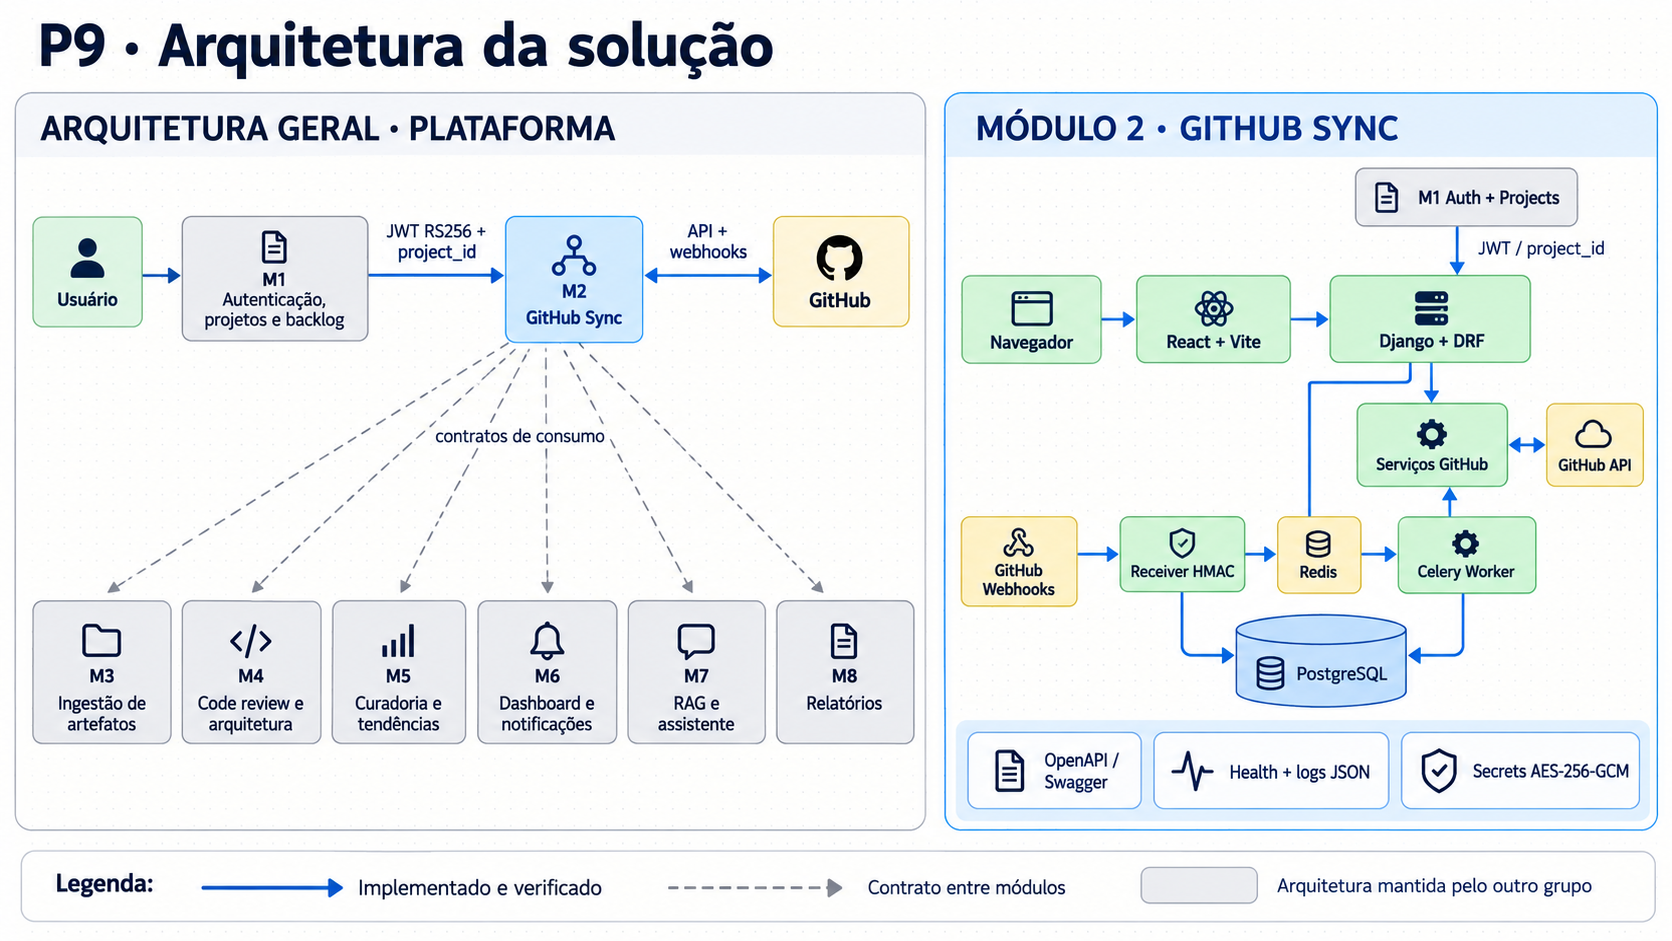
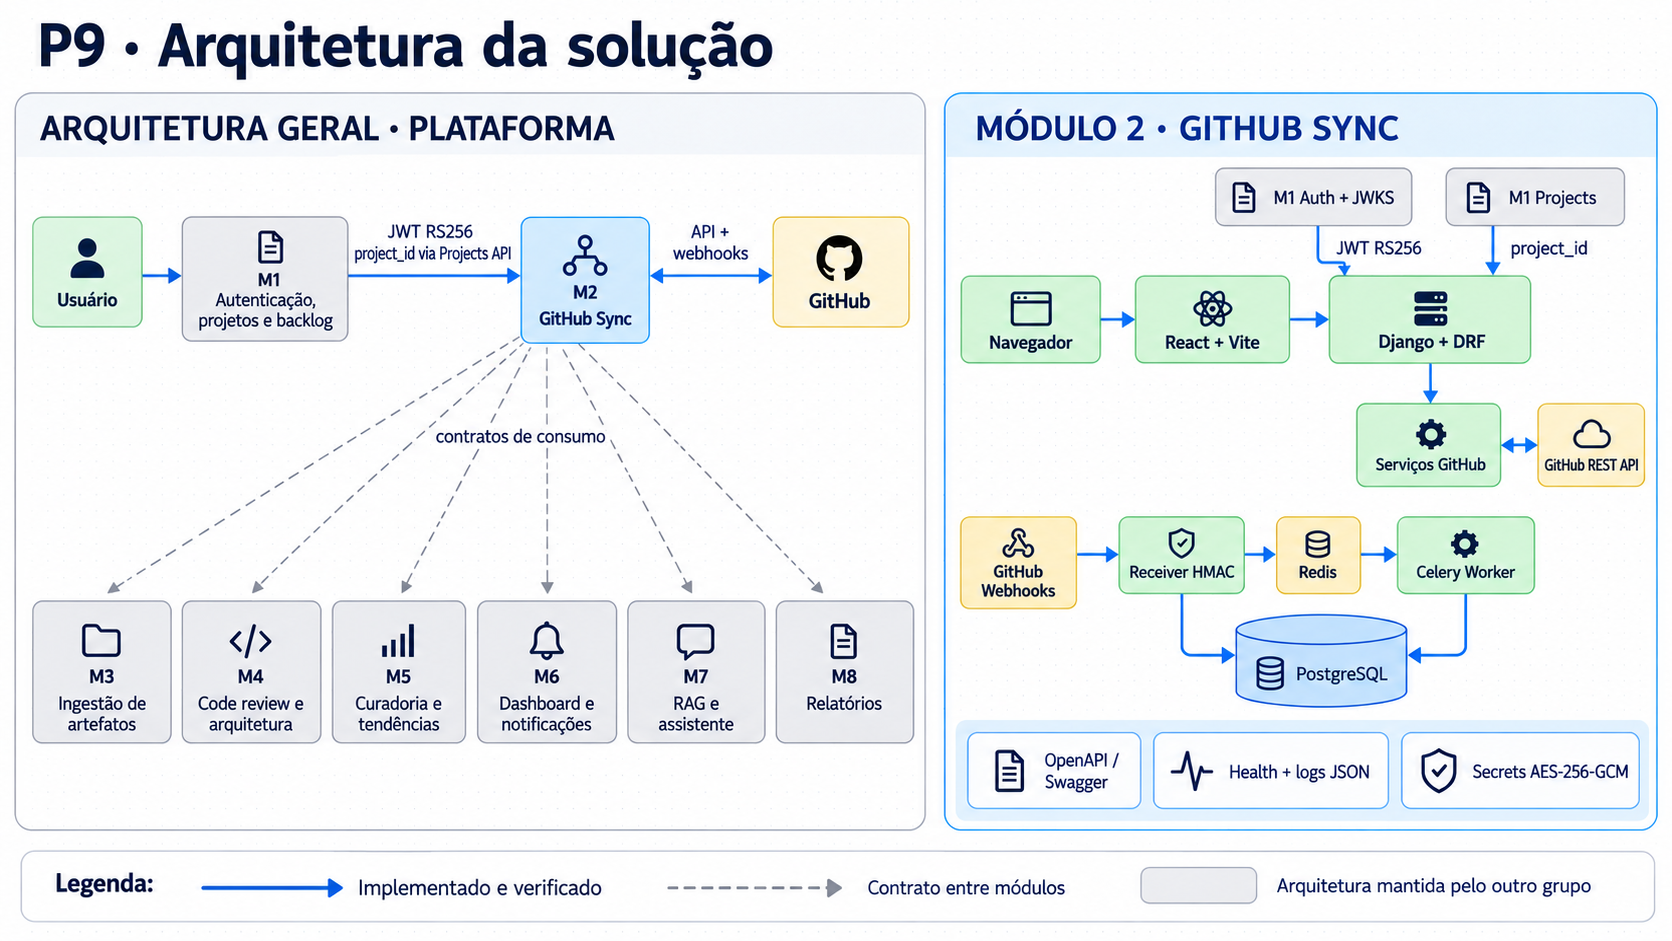
fix(p9): align diagram with implemented architecture

diff --git a/docs/p9-architecture-miro.md b/docs/p9-architecture-miro.md
@@ -40,7 +40,7 @@ Regra de propriedade: cada grupo desenha e mantém a arquitetura interna do pró
 ```mermaid
 flowchart LR
     User[Usuário / navegador] --> M6[M6 · Interface, dashboard e notificações]
-    M1[M1 · Autenticação, projetos e backlog] -->|JWT RS256 + project_id| M2[M2 · GitHub Sync]
+    M1[M1 · Autenticação, projetos e backlog] -->|JWT RS256; project_id via Projects API| M2[M2 · GitHub Sync]
     GitHub[GitHub · API e webhooks] <--> M2
 
     M2 -. commits, branches, PRs e conteúdo .-> M3[M3 · Ingestão de artefatos]
@@ -77,12 +77,11 @@ flowchart TB
     App --> Docs[OpenAPI / Swagger]
     App --> ORM[Django ORM]
 
-    GitHubAPI[GitHub REST / GraphQL] <--> RepoService
+    GitHubAPI[GitHub REST API] <--> RepoService
     GitHubHooks[GitHub Webhooks] -->|HMAC SHA-256| Webhook[Receiver idempotente]
     Webhook --> ORM
     Webhook -->|enfileira| Redis[(Redis)]
     Redis --> Worker[Celery Worker]
-    Worker --> RepoService
     Worker --> ORM
 
     ORM --> DB[(PostgreSQL em produção / SQLite local)]
@@ -94,7 +93,7 @@ flowchart TB
 
 | Camada | Responsabilidade |
 | --- | --- |
-| React + Vite | navegação, login/cadastro, seleção/criação de projeto, conexão e visualização sem dados fictícios |
+| React + Vite | interface específica do Módulo 2: navegação, login/cadastro, seleção/criação de projeto, conexão e visualização sem dados fictícios |
 | Django/DRF | fachada same-origin, autenticação, autorização, APIs e documentação OpenAPI |
 | Serviços GitHub | handshake, metadados, commits, branches, PRs, conteúdo, diff e sincronização incremental |
 | Webhook + Celery | validação HMAC, idempotência, persistência da entrega, retry e processamento assíncrono |
@@ -132,6 +131,8 @@ Para cada módulo, peça e registre no frame `10 — Contratos e pendências`:
 
 - equipes, papéis e permissões por função do M1 ainda não foram publicados;
 - integrações M2 → M3/M4/M5/M6/M7/M8 são contratos previstos até haver URL e teste real dos consumidores;
+- API Gateway e Data Bus permanecem `A definir` até existir um contrato comum da turma;
+- cada módulo deve representar o próprio banco; não existe um banco compartilhado da plataforma;
 - o deploy público do M2 precisa ser restabelecido antes de divulgar uma mensagem de consumo para a turma;
 - recursos visuais ainda sem backend devem permanecer visíveis somente como `Em desenvolvimento` ou `Em breve`, sem números ou ações fictícias.
 
